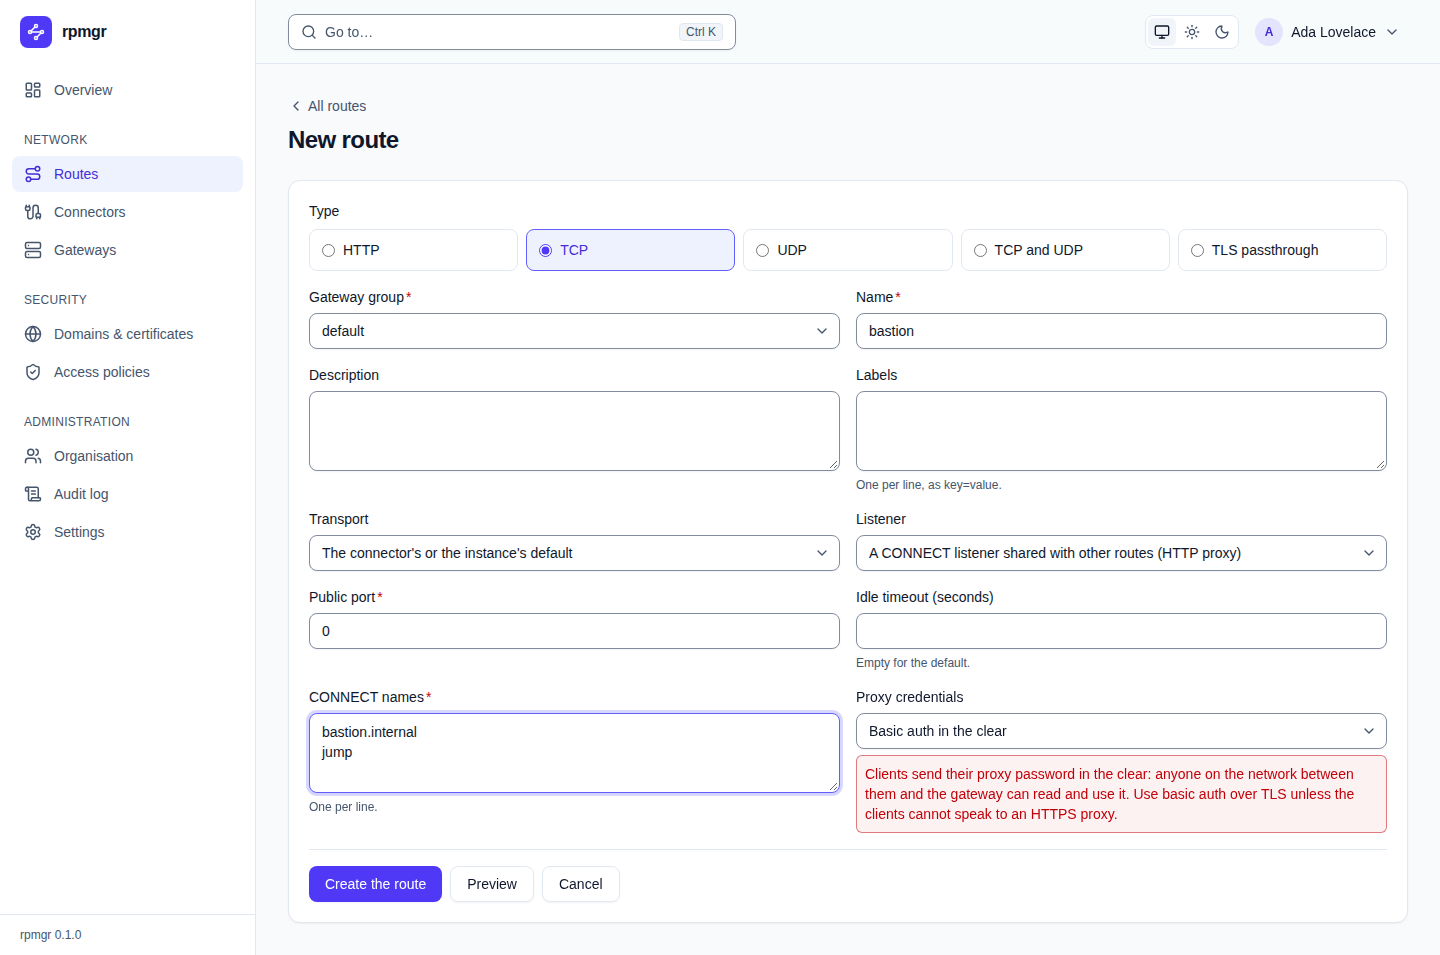
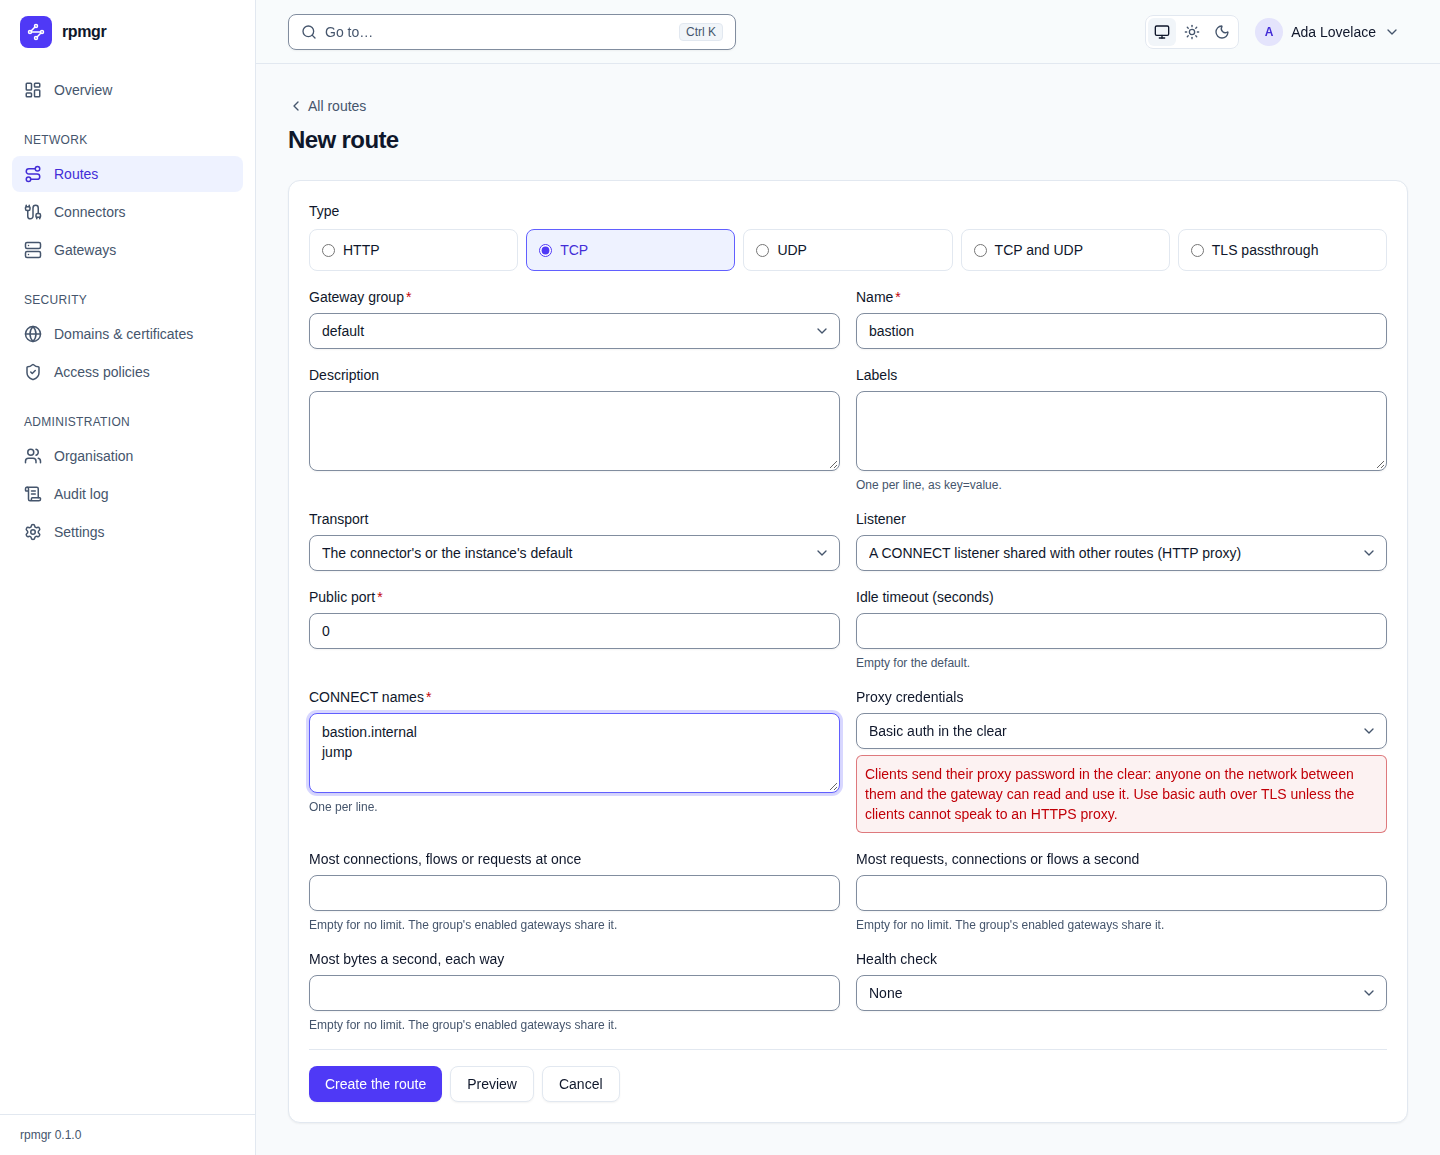
feat(web): edit the limits of routes
Slice 3.13 of P2-M03, second part: the route form edits a route's
limits (3.10), on every route type: connections, requests a second and
bandwidth, each empty for no limit. The three go under the update mask's
one limits path, so a change of any sends them whole, and a route whose
fields are all empty has no limits. The form refuses a bandwidth below
the API's smallest before sending, protovalidate the bounds, and a
violation the server names shows on its limit's field.

Refs #628

diff --git a/web/src/pages/route-edit.test.tsx b/web/src/pages/route-edit.test.tsx
@@ -35,7 +35,8 @@ const routes: Record<string, Route> = {
     headerMatches: [{ name: "X-Env", match: { case: "exact", value: "beta" } }, { name: "X-Tenant", match: { case: "present", value: true } }],
     upstreamResponseHeaderTimeoutSeconds: 300, upstreamIdleTimeoutSeconds: 30 } },
     healthCheck: { type: HealthCheckType.HTTP, port: 8081, httpPath: "/healthz?deep=1", expectedStatusMin: 200, expectedStatusMax: 204,
-      intervalSeconds: 30, timeoutSeconds: 5, unhealthyThreshold: 4, healthyThreshold: 1 } }),
+      intervalSeconds: 30, timeoutSeconds: 5, unhealthyThreshold: 4, healthyThreshold: 1 },
+    limits: { maxConnections: 200, requestsPerSecond: 50, bandwidthBytesPerSecond: 10_485_760n } }),
   tcp: create(RouteSchema, { ...common, spec: { case: "tcp", value: { port: 25432, idleTimeoutSeconds: 600 } } }),
   tcpConnect: create(RouteSchema, { ...common, spec: { case: "tcp", value: { port: 20001, idleTimeoutSeconds: 600, listenerMode: ListenerMode.HTTP_CONNECT,
     connect: { authorities: ["bastion", "ssh.internal"], authMode: ConnectAuthMode.NONE } } } }),
@@ -175,6 +176,70 @@ describe("RouteEdit", () => {
     fireEvent.change(await screen.findByLabelText("Serve only requests with these headers"), { target: { value: "Host: a.example.com" } });
     save();
     expect(await screen.findByText("headermatch: invalid header matches: header Host cannot be matched")).toBeTruthy();
+  });
+
+  it("edits a route's limits, clearing one, and sends the three under one mask path", async () => {
+    const updates = edit(routes.http!);
+    const conns = await screen.findByLabelText("Most connections, flows or requests at once");
+    expect([(conns as HTMLInputElement).value, (screen.getByLabelText("Most requests, connections or flows a second") as HTMLInputElement).value,
+      (screen.getByLabelText("Most bytes a second, each way") as HTMLInputElement).value]).toEqual(["200", "50", "10485760"]);
+    fireEvent.change(conns, { target: { value: "" } });
+    fireEvent.change(screen.getByLabelText("Most requests, connections or flows a second"), { target: { value: "1000000" } });
+    save();
+    await waitFor(() => expect(updates).toHaveLength(1));
+    expect(updates[0]!.route?.limits).toMatchObject({ maxConnections: 0, requestsPerSecond: 1_000_000, bandwidthBytesPerSecond: 10_485_760n });
+    expect(updates[0]!.updateMask?.paths.filter((p) => p === "limits")).toHaveLength(1);
+  });
+
+  it("removes a route's limits when every field is empty, and adds them to a route without any", async () => {
+    const updates = edit(routes.http!);
+    for (const label of ["Most connections, flows or requests at once", "Most requests, connections or flows a second", "Most bytes a second, each way"]) {
+      fireEvent.change(await screen.findByLabelText(label), { target: { value: " " } });
+    }
+    save();
+    await waitFor(() => expect(updates).toHaveLength(1));
+    expect(updates[0]!.route?.limits).toBeUndefined();
+    expect(updates[0]!.updateMask?.paths).toContain("limits");
+    cleanup();
+    const added = edit(routes.tcp!);
+    expect((await screen.findByLabelText<HTMLInputElement>("Most bytes a second, each way")).value).toBe("");
+    fireEvent.change(screen.getByLabelText("Most bytes a second, each way"), { target: { value: "1024" } }); // the smallest
+    save();
+    await waitFor(() => expect(added).toHaveLength(1));
+    expect(added[0]!.route?.limits).toMatchObject({ maxConnections: 0, requestsPerSecond: 0, bandwidthBytesPerSecond: 1024n });
+  });
+
+  it.each([
+    ["a bandwidth below the smallest", "Most bytes a second, each way", "1023", "A bandwidth limit is at least 1024 bytes a second; leave it empty for none."],
+    ["a bandwidth that is no whole number", "Most bytes a second, each way", "1e6", "Enter a whole number."],
+    ["a bandwidth above the largest", "Most bytes a second, each way", "100000000001", /less than or equal to 100000000000/],
+    ["a negative connection limit", "Most connections, flows or requests at once", "-1", "Enter a whole number."],
+    ["a connection limit above the largest", "Most connections, flows or requests at once", "1000001", /less than or equal to 1000000/],
+    ["a request rate above the largest", "Most requests, connections or flows a second", "1000001", /less than or equal to 1000000/],
+  ])("refuses %s before sending", async (_, label, value, message) => {
+    const updates = edit(routes.http!);
+    const field = await screen.findByLabelText(label);
+    fireEvent.change(field, { target: { value } });
+    save();
+    await waitFor(() => expect(field.getAttribute("aria-invalid")).toBe("true"));
+    expect(screen.getByText(message)).toBeTruthy();
+    expect(updates).toEqual([]);
+  });
+
+  it("shows a violation of one limit on that limit's field", async () => {
+    edit(routes.http!, () => {
+      const el = (name: string, n: number, t: FieldDescriptorProto_Type) => ({ fieldName: name, fieldNumber: n, fieldType: t });
+      const v = create(ViolationsSchema, { violations: [
+        { field: { elements: [el("route", 1, FieldDescriptorProto_Type.MESSAGE), el("limits", 22, FieldDescriptorProto_Type.MESSAGE),
+          el("requests_per_second", 2, FieldDescriptorProto_Type.UINT32)] }, message: "value must be less than or equal to 1000000" },
+      ] });
+      throw new ConnectError("invalid", Code.InvalidArgument, undefined, [{ desc: ViolationsSchema, value: v }]);
+    });
+    await screen.findByLabelText("Name");
+    save();
+    const rate = screen.getByLabelText("Most requests, connections or flows a second");
+    await waitFor(() => expect(rate.getAttribute("aria-invalid")).toBe("true"));
+    expect(screen.getByLabelText("Most connections, flows or requests at once").getAttribute("aria-invalid")).toBeNull();
   });
 
   it("edits a CONNECT route's names and mode, warns of passwords in the clear, and shows the server's warning", async () => {

diff --git a/web/src/route-form/fields.ts b/web/src/route-form/fields.ts
@@ -2,8 +2,8 @@
 
 import { clone, create } from "@bufbuild/protobuf";
 import { DataTransport } from "@/gen/rpmgr/v1/connector_pb";
-import { ConnectAuthMode, HeaderMatchSchema, HealthCheckSchema, HealthCheckType, ListenerMode, Port80Mode, RouteSchema, TLSMode,
-  type HeaderMatch, type HealthCheck, type Route, type TCPRouteSpec } from "@/gen/rpmgr/v1/route_pb";
+import { ConnectAuthMode, HeaderMatchSchema, HealthCheckSchema, HealthCheckType, ListenerMode, Port80Mode, RouteLimitsSchema, RouteSchema,
+  TLSMode, type HeaderMatch, type HealthCheck, type Route, type RouteLimits, type TCPRouteSpec } from "@/gen/rpmgr/v1/route_pb";
 
 // A field of the route form: its form key, the route path the API's update mask names
 // (internal/apisvc routeFields), how it is edited, and how it reads from and writes to a route.
@@ -251,9 +251,43 @@ const health: RouteField[] = [
     set: (c, v) => (c.healthyThreshold = optional(v) ?? 0) }),
 ];
 
-// routeFields are the fields the form shows for a route of its type, its health check last.
+// The route's limits (docs/03-connections.md, "Route limits"): a field per limit, all under the
+// update mask's limits, so that a change of any sends them whole. Empty is no limit, and a route
+// without any has no limits at all.
+const minBandwidth = 1024; // internal/apisvc MinBandwidth
+const noLimits = (l: RouteLimits) => l.maxConnections === 0 && l.requestsPerSecond === 0 && l.bandwidthBytesPerSecond === 0n;
+
+function limit(key: string, part: string, field: Pick<RouteField, "problem"> & {
+  get: (l: RouteLimits) => string;
+  set: (l: RouteLimits, v: string) => void;
+}): RouteField {
+  return {
+    ...field, key, path: "limits", errorPath: `limits.${part}`, kind: "optionalNumber", hint: "limit",
+    get: (r) => (r.limits ? field.get(r.limits) : ""),
+    set: (r, v) => {
+      r.limits ??= create(RouteLimitsSchema);
+      field.set(r.limits, v);
+      if (noLimits(r.limits)) {
+        r.limits = undefined;
+      }
+    },
+  };
+}
+
+const limits: RouteField[] = [
+  limit("maxConnections", "max_connections", { get: (l) => count(l.maxConnections), set: (l, v) => (l.maxConnections = optional(v) ?? 0) }),
+  limit("requestsPerSecond", "requests_per_second", { get: (l) => count(l.requestsPerSecond),
+    set: (l, v) => (l.requestsPerSecond = optional(v) ?? 0) }),
+  limit("bandwidth", "bandwidth_bytes_per_second", {
+    problem: (v) => (/^\d+$/.test(v) && BigInt(v) > 0n && BigInt(v) < minBandwidth ? { text: "bandwidthMin", values: { min: minBandwidth } } : undefined),
+    get: (l) => (l.bandwidthBytesPerSecond === 0n ? "" : String(l.bandwidthBytesPerSecond)),
+    set: (l, v) => (l.bandwidthBytesPerSecond = /^\d+$/.test(v.trim()) ? BigInt(v.trim()) : 0n) }),
+];
+
+// routeFields are the fields the form shows for a route of its type, then its limits and its
+// health check.
 export function routeFields(r: Route): RouteField[] {
-  return [...common, ...(byType[r.spec.case ?? ""] ?? []), ...health];
+  return [...common, ...(byType[r.spec.case ?? ""] ?? []), ...limits, ...health];
 }
 
 // maskOf is the update mask of the form's fields, each path once.

diff --git a/web/e2e/sign-in.spec.ts b/web/e2e/sign-in.spec.ts
@@ -216,6 +216,12 @@ test("signs in, creates an API token with a step-up, sets up an authenticator an
   await page.getByRole("button", { name: "Create the route" }).click();
   await expect(page.getByText("Line 2: “X Env” is not a header name.", { exact: false })).toBeVisible();
   await expect(page.getByLabel("Serve only requests with these headers")).toHaveAttribute("aria-invalid", "true");
+  // A route's limits: empty is none, and a bandwidth below the smallest is refused on its field.
+  await page.getByLabel("Most bytes a second, each way").fill("512");
+  await page.getByRole("button", { name: "Create the route" }).click();
+  await expect(page.getByText("A bandwidth limit is at least 1024 bytes a second; leave it empty for none.")).toBeVisible();
+  await expect(page.getByLabel("Most bytes a second, each way")).toHaveAttribute("aria-invalid", "true");
+  await expectAccessible(page);
   // A CONNECT route: its fields come with the mode, and basic auth in the clear stays warned of.
   await page.getByRole("radio", { name: "TCP", exact: true }).check();
   await page.getByLabel("Listener", { exact: true }).selectOption({ label: "A CONNECT listener shared with other routes (HTTP proxy)" });

diff --git a/web/screens/screens.spec.ts b/web/screens/screens.spec.ts
@@ -140,6 +140,8 @@ test("screenshots of the user guide", async ({ page, browser }) => {
   await expect(page.getByRole("heading", { name: "New route", level: 1 })).toBeVisible();
   await page.getByLabel("Name", { exact: true }).fill("photos");
   await page.getByLabel("Hostnames").fill("photos.example.com");
+  await page.getByLabel("Serve only requests with these headers").fill("X-Env: beta");
+  await page.getByLabel("Most connections, flows or requests at once").fill("200");
   await page.waitForTimeout(800);
   await shot(page, "route-new", true);
 

diff --git a/CHANGELOG.md b/CHANGELOG.md
@@ -40,13 +40,13 @@ Changes to the design documents are not recorded here: see the git history and t
 - Routes: limits for a route as a whole, on every route type: open connections, flows or HTTP
   requests in flight, requests or new connections a second, and bandwidth in each direction, set
   with `rpmgr create route` and `rpmgr update route` (`--max-connections`,
-  `--requests-per-second`, `--bandwidth`) or the API. The gateways of the route's group share each
-  limit; over it, HTTP gets 503 or 429 with `Retry-After`, TCP is reset and UDP dropped, and
-  bandwidth slows data down. Access policies gain a per-client rate limit, on every route type:
+  `--requests-per-second`, `--bandwidth`), the API or the web UI's route form. The gateways of the
+  route's group share each limit; over it, HTTP gets 503 or 429 with `Retry-After`, TCP is reset
+  and UDP dropped, and bandwidth slows data down. Access policies gain a per-client rate limit, on every route type:
   each client address, or IPv6 /64, may make so many requests, new connections or new flows a
   second, with a burst (`--rule rate-limit:<per second>[,<burst>]`, the web UI's policy form, or
   the API). A gateway of an earlier release does not get a route with limits or such a rule.
-  (#622, #623, #624, #625, #917)
+  (#622, #623, #624, #625, #628, #917)
 - Routes: active health checks. A route may have one TCP or HTTP check, which each connector runs
   against its own targets of the route, on their port or another one; new connections pass over a
   target that fails it, gateways pass over a connector whose targets of a priority are all

diff --git a/docs/guide/web-ui/routes.md b/docs/guide/web-ui/routes.md
@@ -108,6 +108,17 @@ within the organisation's port quota. An empty timeout keeps the API's default, 
 A **TLS passthrough** route adds **Hostnames** only
 ([TLS passthrough](../routes/tls-passthrough.md)).
 
+Every route then has its limits ([Route limits](../routes/limits.md)), each empty for no limit:
+
+| Field | Takes |
+|---|---|
+| **Most connections, flows or requests at once** | Open connections, UDP flows and HTTP requests in flight |
+| **Most requests, connections or flows a second** | HTTP requests, new connections and new UDP flows a second |
+| **Most bytes a second, each way** | The bandwidth in each direction. A value below the smallest the API takes ([03](../../03-connections.md#route-limits-phase-2)) is refused before the route is sent, with the smallest in the message |
+
+Each limit is the route's in all; the enabled gateways of its group share it. A value above the
+API's bound is refused on its field, as is anything that is not a whole number.
+
 Every route ends with its **Health check** ([Health checks](../routes/targets.md#health-checks)):
 
 | Field | Takes |

diff --git a/docs/09-web-ui.md b/docs/09-web-ui.md
@@ -363,7 +363,9 @@ flowchart LR
     - **Timeouts** (http): upstream response header and upstream idle, in seconds, empty for the
       gateway's.
     - **Limits** (every type): connections, request rate and bandwidth for the route as a whole,
-      with a hint that the group's enabled gateways share them.
+      each empty for no limit, with a hint that the group's enabled gateways share them; all
+      three go under one update mask path. The form refuses a bandwidth below the API's smallest
+      before sending, and shows a bound the API refuses on the field it names.
     - **Health check** (every type): TCP or HTTP, port, path, expected status, interval, timeout
       and thresholds; route detail shows each target's health, and "health not checked" for a
       connector that runs no checks.

diff --git a/docs/guide/routes/limits.md b/docs/guide/routes/limits.md
@@ -39,8 +39,10 @@ rpmgr update route --requests-per-second 0 db
 
 ### With the web UI
 
-The route form gets its limits section with a later release; until then the web UI shows and keeps
-the limits the command line set.
+The route form, on **New route** and on a route's **Edit**, has a field for each limit below the
+fields of the route's type: **Most connections, flows or requests at once**, **Most requests,
+connections or flows a second** and **Most bytes a second, each way**. Empty is no limit; clear a
+field and save to remove that limit ([Routes](../web-ui/routes.md#the-fields)).
 
 ## Gateways of an earlier release
 
